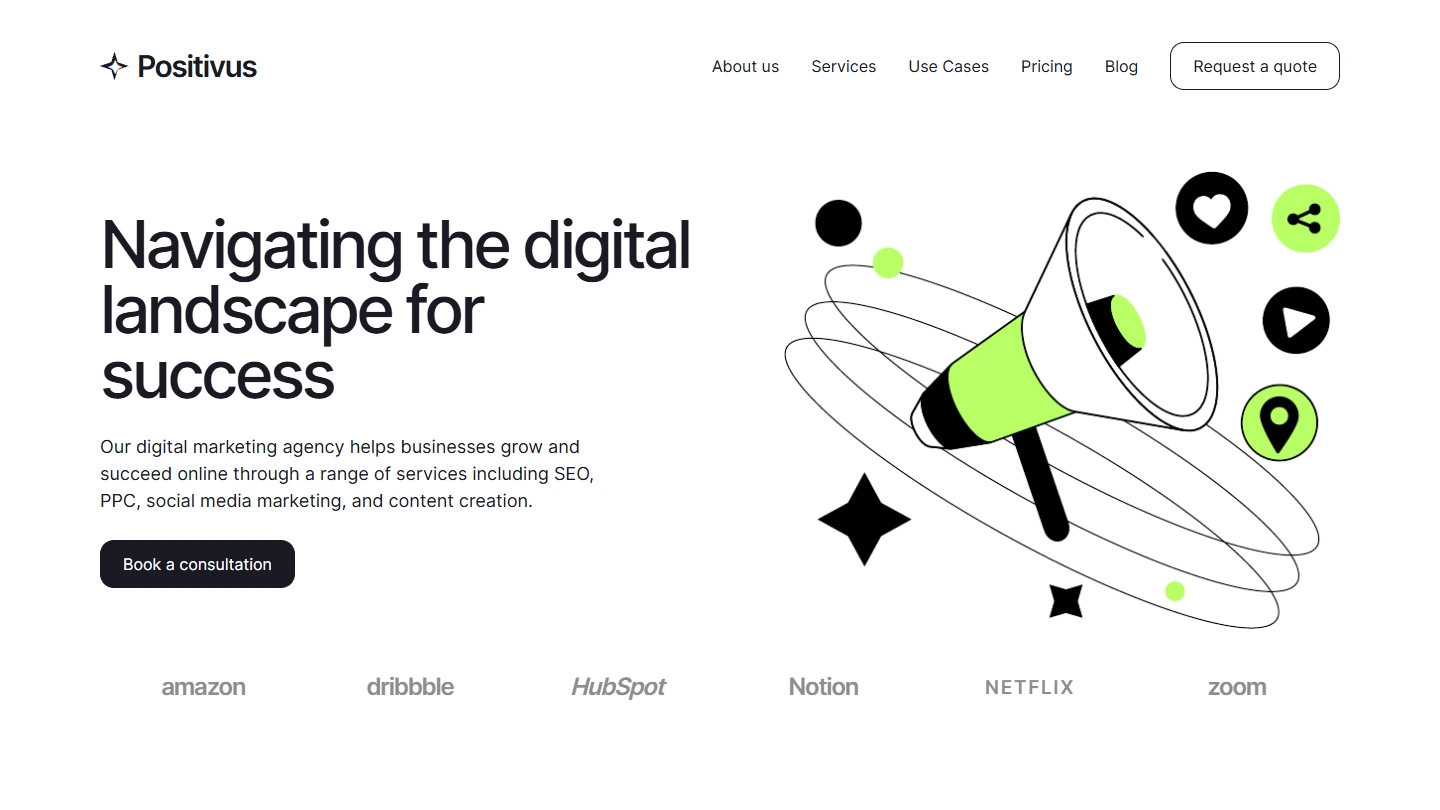
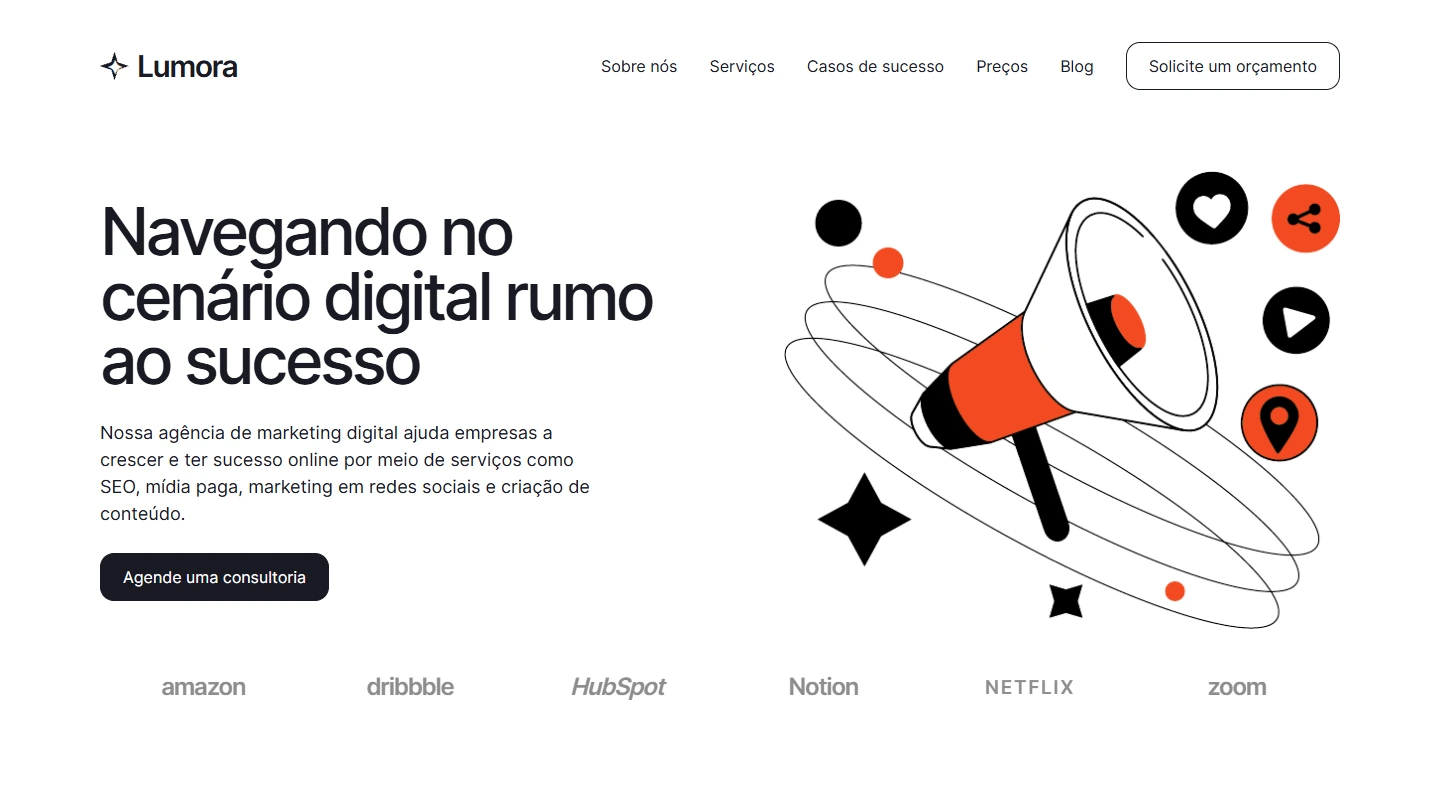
feat: update Lumora carousel preview

diff --git a/public/previews/positivus/index.html b/public/previews/positivus/index.html
@@ -1,44 +1,44 @@
 <!doctype html>
-<html lang="en">
+<html lang="pt-BR">
   <head>
     <meta charset="UTF-8" />
     <meta name="viewport" content="width=1440, initial-scale=1" />
     <meta name="color-scheme" content="light" />
-    <title>Preview do hero Positivus</title>
-    <link rel="preload" href="./assets/hero-illustration.png" as="image" type="image/png" />
+    <title>Prévia da seção principal da Lumora</title>
+    <link rel="preload" href="./assets/hero-illustration-orange.png" as="image" type="image/png" />
     <link rel="stylesheet" href="./capsule.css" />
   </head>
   <body>
-    <main class="capsule" aria-label="Preview estático do hero Positivus">
+    <main class="capsule" aria-label="Prévia estática da seção principal da Lumora">
       <header class="site-header">
         <div class="shell header__inner">
-          <div class="brand" aria-label="Positivus">
+          <div class="brand" aria-label="Lumora">
             <span class="brand__mark" aria-hidden="true">✦</span>
-            <span>Positivus</span>
+            <span>Lumora</span>
           </div>
-          <nav class="site-nav" aria-label="Navegação do preview">
-            <span>About us</span>
-            <span>Services</span>
-            <span>Use Cases</span>
-            <span>Pricing</span>
+          <nav class="site-nav" aria-label="Navegação da prévia">
+            <span>Sobre nós</span>
+            <span>Serviços</span>
+            <span>Casos de sucesso</span>
+            <span>Preços</span>
             <span>Blog</span>
-            <span class="button button--outline">Request a quote</span>
+            <span class="button button--outline">Solicite um orçamento</span>
           </nav>
         </div>
       </header>
 
       <section class="hero shell">
         <div class="hero__copy">
-          <h1>Navigating the digital landscape for success</h1>
-          <p>Our digital marketing agency helps businesses grow and succeed online through a range of services including SEO, PPC, social media marketing, and content creation.</p>
-          <span class="button button--dark">Book a consultation</span>
+          <h1>Navegando no cenário digital rumo ao sucesso</h1>
+          <p>Nossa agência de marketing digital ajuda empresas a crescer e ter sucesso online por meio de serviços como SEO, mídia paga, marketing em redes sociais e criação de conteúdo.</p>
+          <span class="button button--dark">Agende uma consultoria</span>
         </div>
         <div class="hero__art" aria-hidden="true">
-          <img src="./assets/hero-illustration.png" alt="" />
+          <img src="./assets/hero-illustration-orange.png" alt="" />
         </div>
       </section>
 
-      <div class="logo-strip shell" aria-label="Trusted companies">
+      <div class="logo-strip shell" aria-label="Empresas que confiam na Lumora">
         <span>amazon</span><span>dribbble</span><span>HubSpot</span><span>Notion</span><span>NETFLIX</span><span>zoom</span>
       </div>
     </main>
